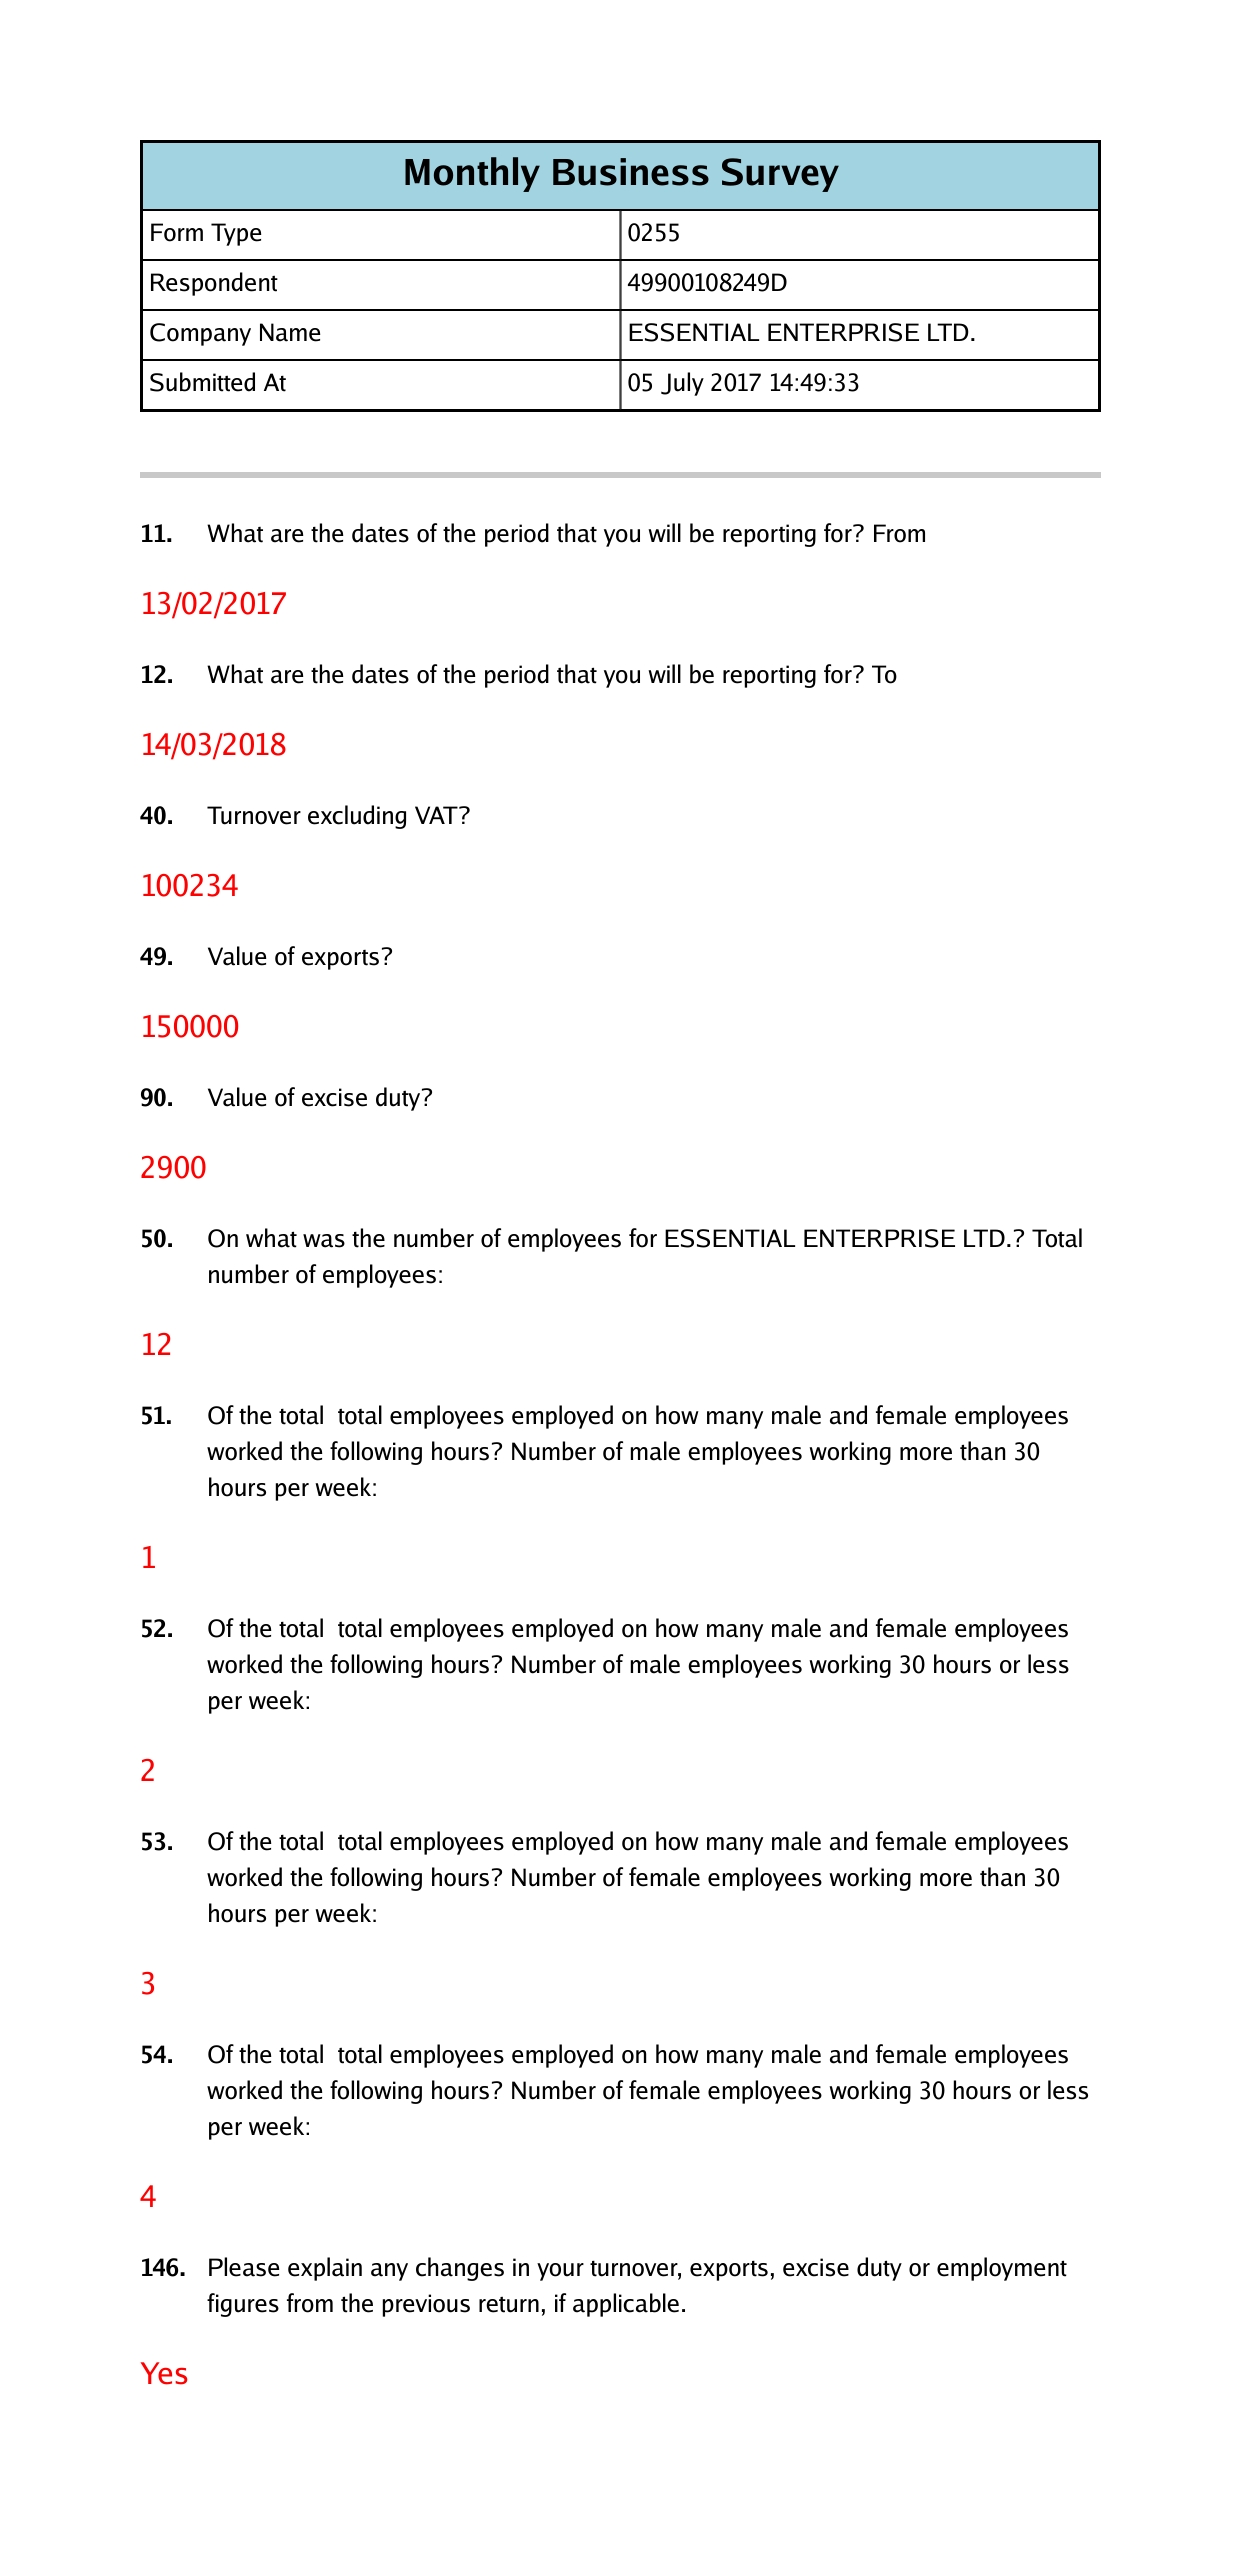
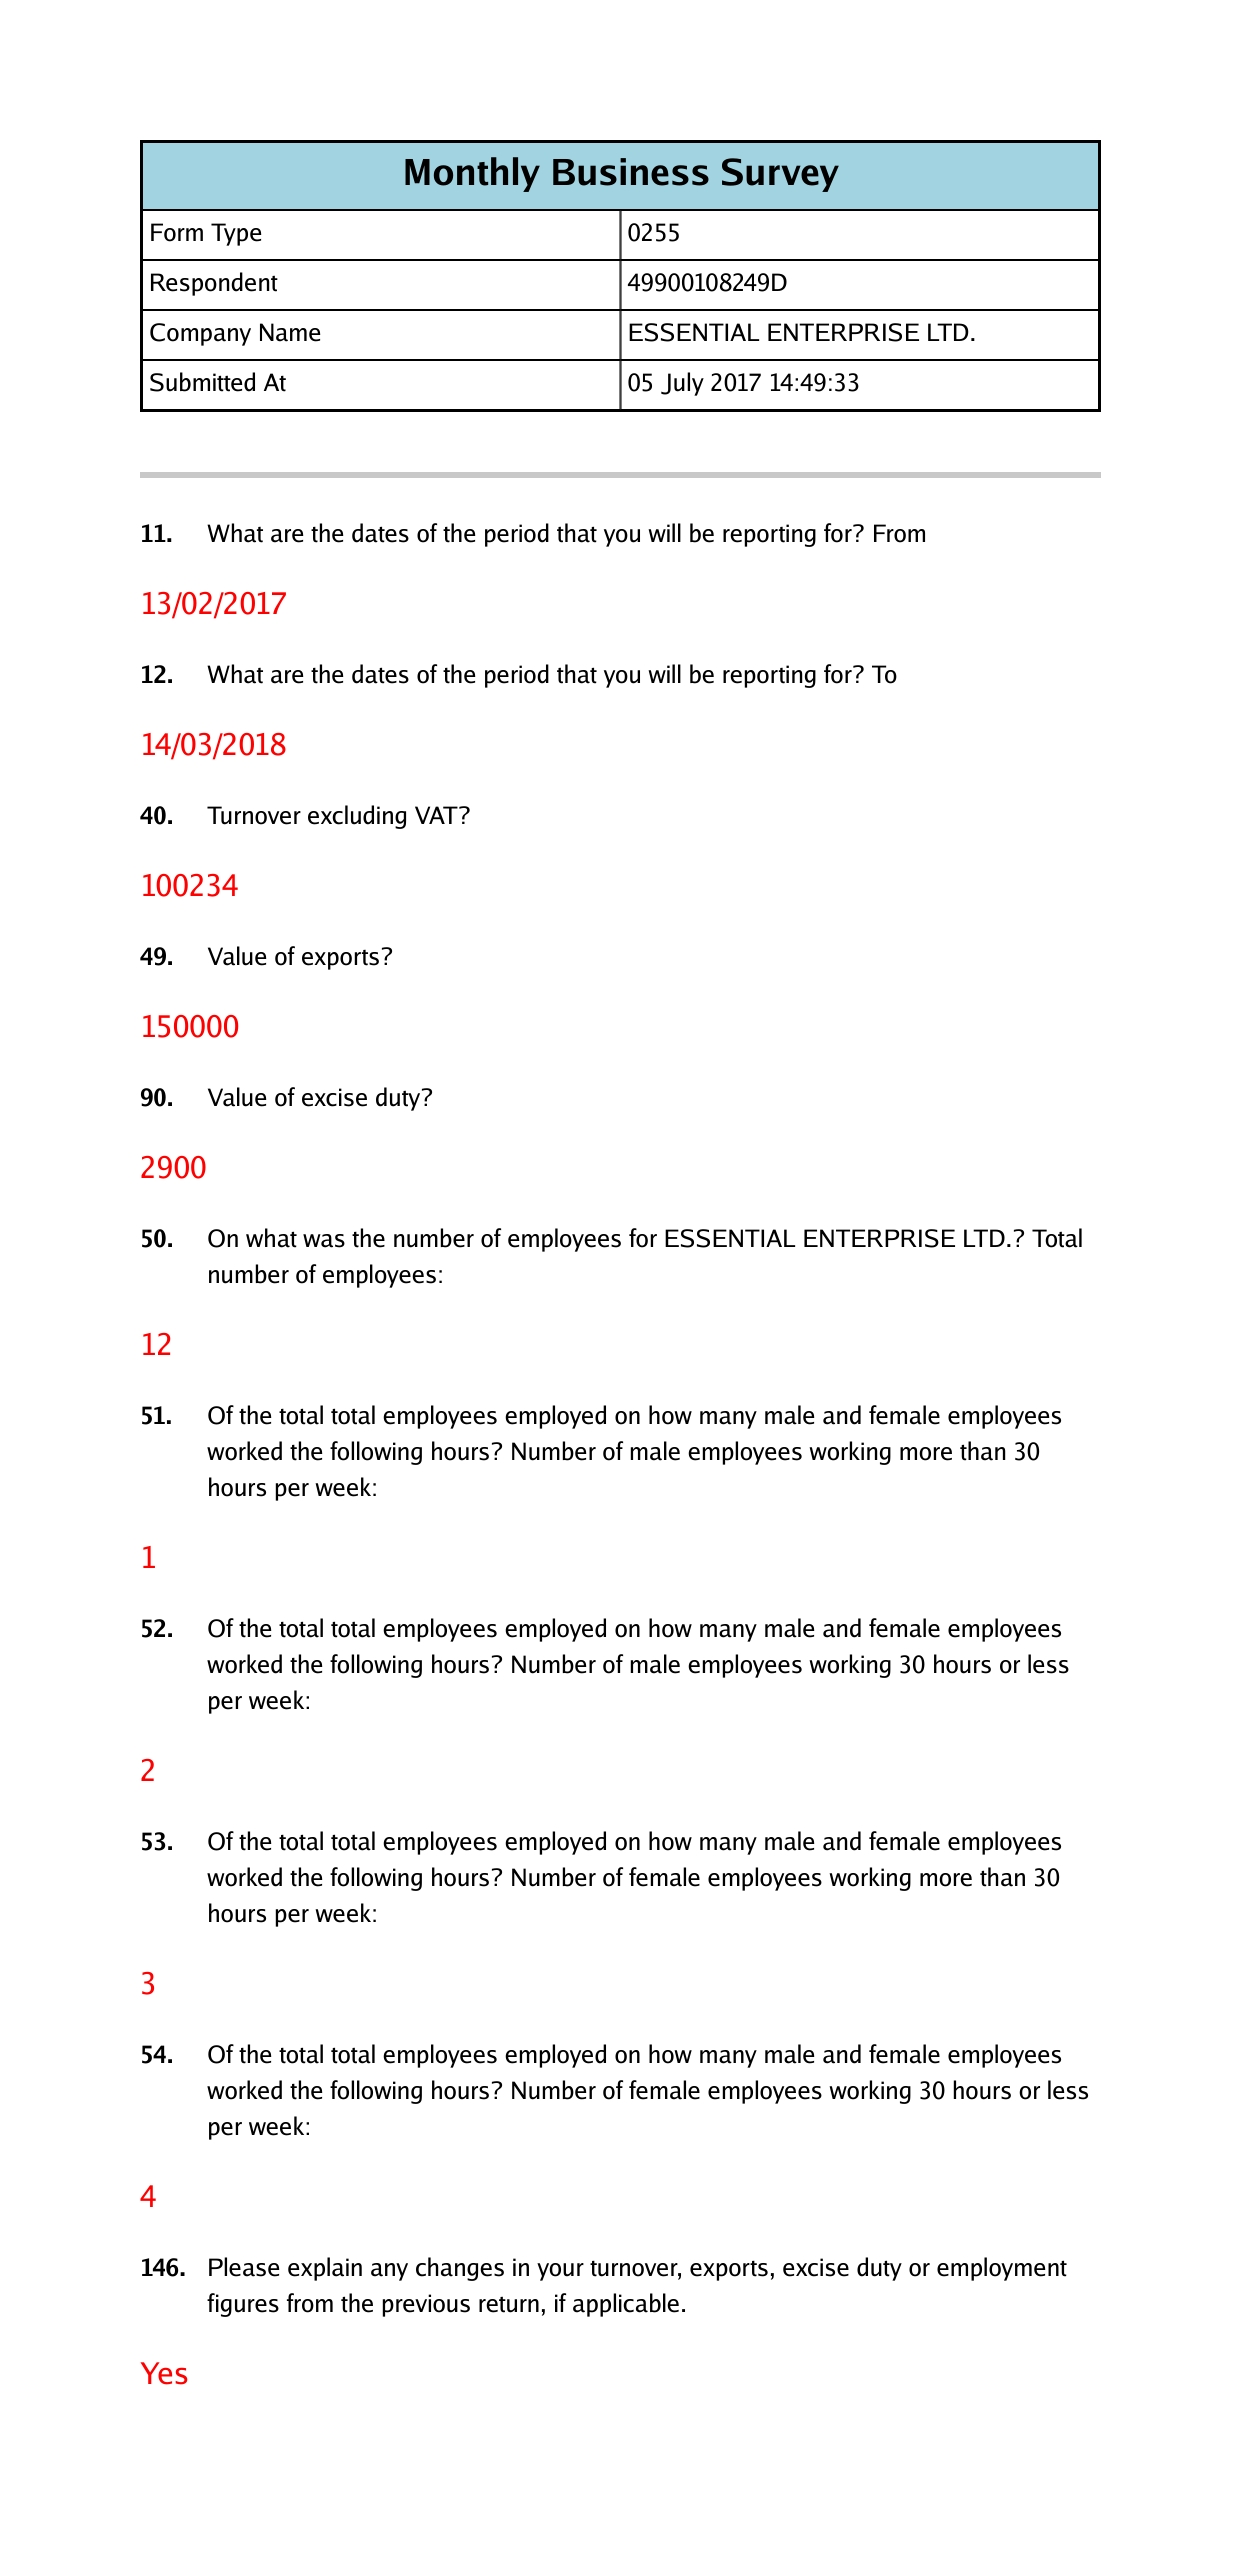
Fixed spaces in html replacement

diff --git a/internal/substitutions/html_test.go b/internal/substitutions/html_test.go
@@ -33,10 +33,20 @@ func TestHtmlStrongEndtag(t *testing.T) {
 		t.Errorf("failed to replce: (%q) instead got (%q)", text, result)
 	}
 }
+
 func TestHtmlStrongSentence(t *testing.T) {
 	text := "A really <strong>strong</strong> test"
 	result := html(text)
 	if result != "A really strong test" {
+		t.Errorf("failed to replce: (%q) instead got (%q)", text, result)
+	}
+}
+
+func TestHtmlEmTags(t *testing.T) {
+	text := "Of the <em></em> total employees employed on 2016-05-01"
+	result := html(text)
+	expected := "Of the total employees employed on 2016-05-01"
+	if result != expected {
 		t.Errorf("failed to replce: (%q) instead got (%q)", text, result)
 	}
 }

diff --git a/internal/substitutions/html.go b/internal/substitutions/html.go
@@ -8,11 +8,14 @@ var htmlLookupMap = map[string]string{
 	"&amp;":     "&",
 	"<em>":      "",
 	"</em>":     "",
-	" , ":       " ",
-	"  ":        " ",
-	" ?":        "?",
 	"<strong>":  "",
 	"</strong>": "",
+}
+
+var spaceLookupMap = map[string]string{
+	" , ": " ",
+	"  ":  " ",
+	" ?":  "?",
 }
 
 // html replaces common "html" codes within a string
@@ -20,6 +23,9 @@ var htmlLookupMap = map[string]string{
 func html(text string) string {
 	result := text
 	for k, v := range htmlLookupMap {
+		result = strings.Replace(result, k, v, -1)
+	}
+	for k, v := range spaceLookupMap {
 		result = strings.Replace(result, k, v, -1)
 	}
 	return result

diff --git a/internal/substitutions/replace_test.go b/internal/substitutions/replace_test.go
@@ -1,0 +1,15 @@
+package substitutions
+
+import (
+	"testing"
+)
+
+func TestReplace(t *testing.T) {
+	lookup := GetLookup("2016-01-01", "2016-12-31", "the business", "2016-05-01")
+	text := "Of the <em>{answer1530a741_2540_4c9b_9021_34f95288e671}</em> total employees employed on {employment_date}"
+	result := Replace(text, lookup)
+	expected := "Of the total employees employed on 2016-05-01"
+	if result != expected {
+		t.Errorf("failed!")
+	}
+}

diff --git a/internal/substitutions/replace.go b/internal/substitutions/replace.go
@@ -1,6 +1,7 @@
 package substitutions
 
 import (
+	"fmt"
 	"strings"
 )
 
@@ -8,7 +9,9 @@ import (
 // Some substitutions are hard coded to avoid overly complex knowledge of the specific survey.
 func Replace(text string, lookup ParameterLookup) string {
 	result := replaceParameters(text, lookup)
+	fmt.Println("result 1:", result)
 	result = html(result)
+	fmt.Println("result 2:", result)
 	return result
 }
 
